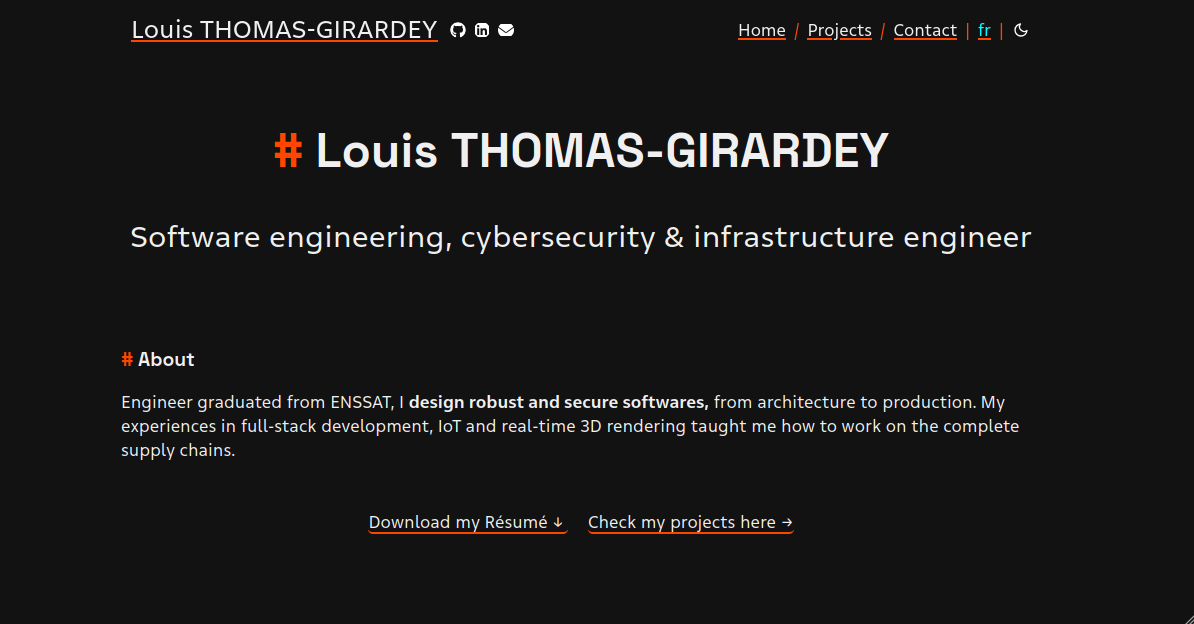
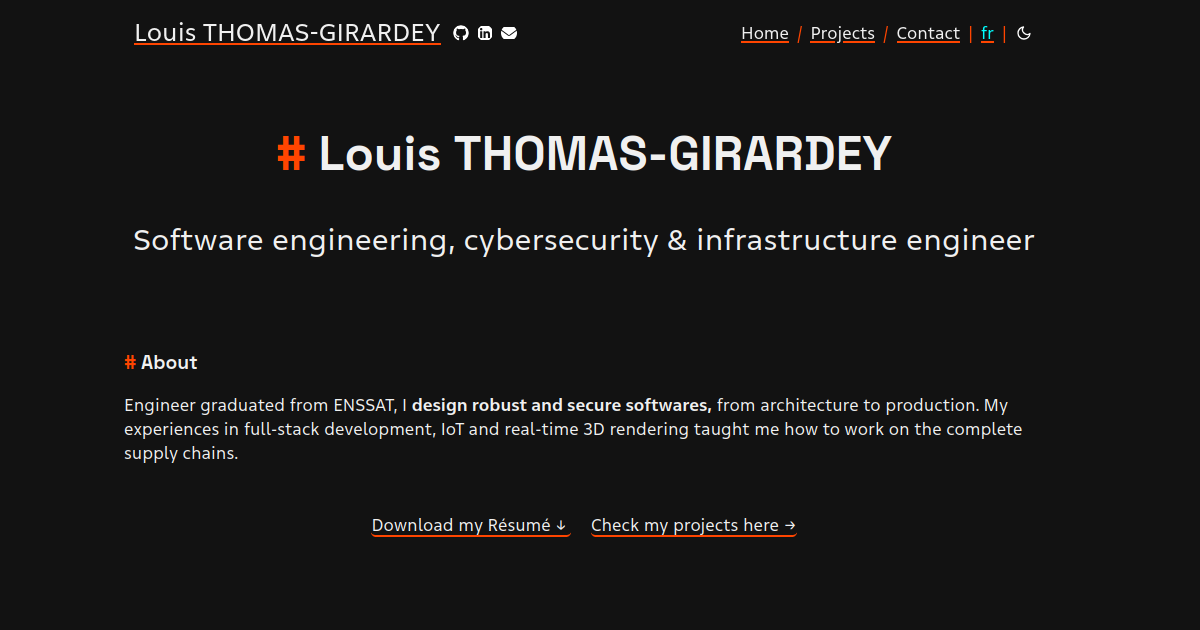
OG: resize img to 1200x630 + added missing tags

diff --git a/content/_index.md b/content/_index.md
@@ -6,10 +6,13 @@ path_to_exp = "experience/_index.md"
 path_to_edu = "education/_index.md"
 
 meta = [
+    { property = "description", content = "Software engineering, cybersecurity & infrastructure engineer" },
+
     { property = "og:title", content = "Louis THOMAS-GIRARDEY" },
     { property = "og:description", content = "Software engineering, cybersecurity & infrastructure engineer" },
     { property = "og:url", content = "https://louis.thomasgirardey.fr" },
     { property = "og:image", content = "https://louis.thomasgirardey.fr/media/og_image_dark.png" },
+    { property = "og:site_name", content = "Louis THOMAS-GIRARDEY" },
 
     { name = "twitter:card", content = "summary_large_image" },
     { name = "twitter:title", content = "Louis THOMAS-GIRARDEY" },

diff --git a/content/_index.fr.md b/content/_index.fr.md
@@ -6,10 +6,13 @@ path_to_exp = "experience/_index.md"
 path_to_edu = "education/_index.md"
 
 meta = [
+    { property = "description", content = "Ingénieur génie logiciel, cybersécurité & infrastructure" },
+
     { property = "og:title", content = "Louis THOMAS-GIRARDEY" },
     { property = "og:description", content = "Ingénieur génie logiciel, cybersécurité & infrastructure" },
     { property = "og:url", content = "https://louis.thomasgirardey.fr" },
     { property = "og:image", content = "https://louis.thomasgirardey.fr/media/og_image_dark.png" },
+    { property = "og:site_name", content = "Louis THOMAS-GIRARDEY" },
 
     { name = "twitter:card", content = "summary_large_image" },
     { name = "twitter:title", content = "Louis THOMAS-GIRARDEY" },
